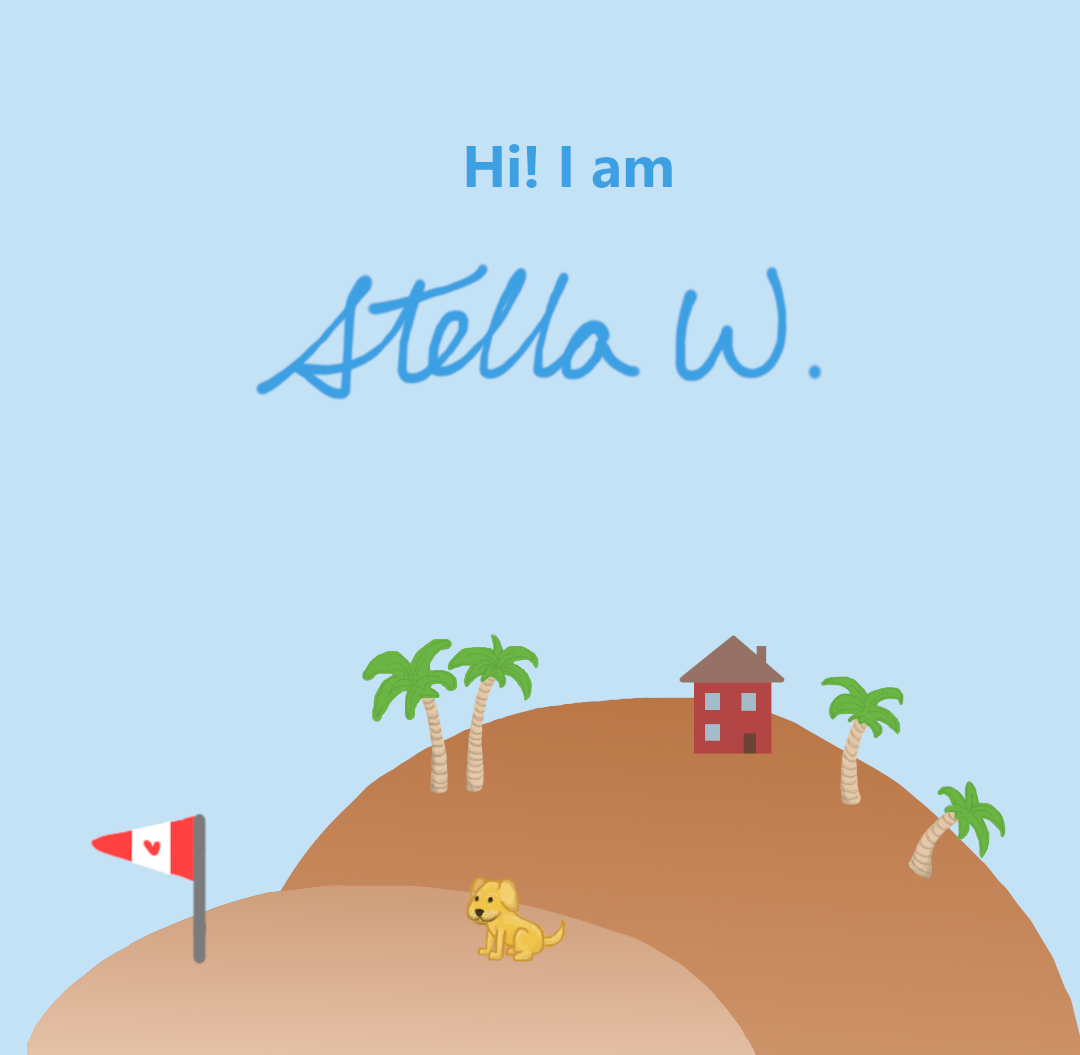
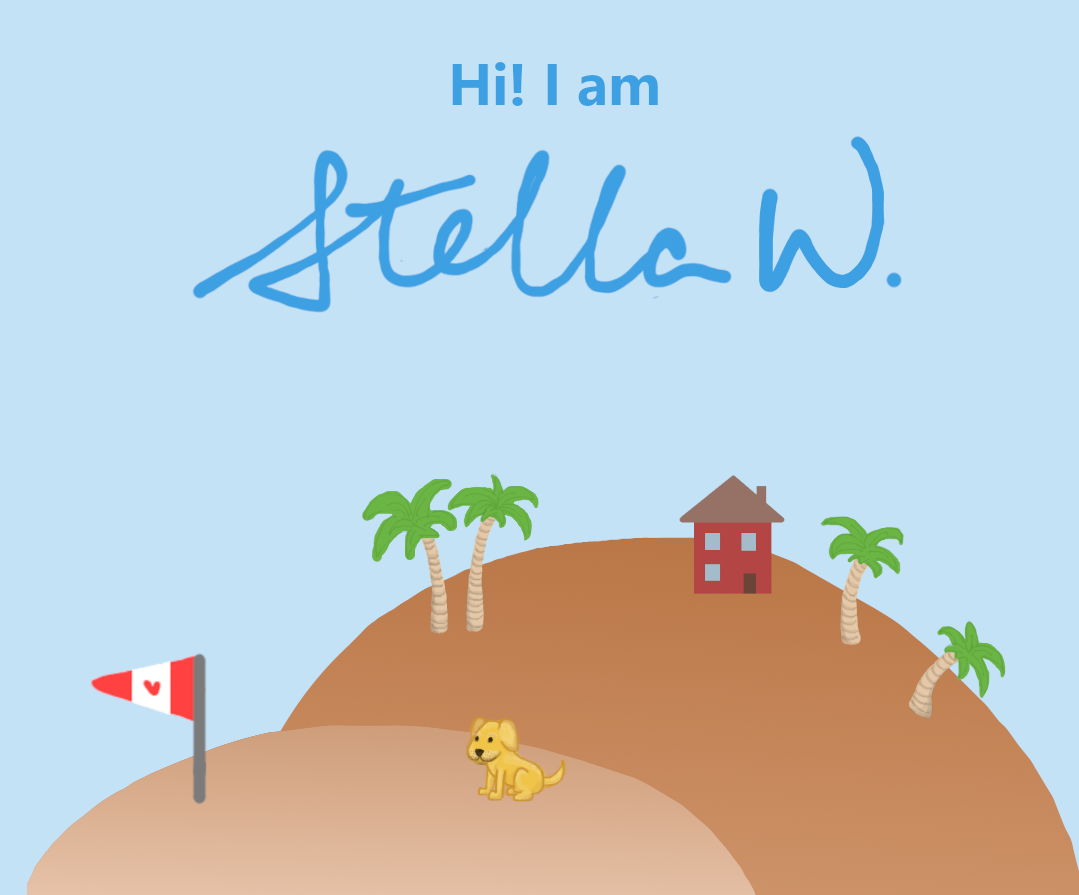
change img

diff --git a/_sass/_variables.scss b/_sass/_variables.scss
@@ -4,8 +4,8 @@
 //
 
 // Colors
-$blue: #4183C4;
-$background: #add6f3;
+$blue: #3ca0e3;
+$background: #73bcec;
 $background2: #c4e2f4;
 
 // Grays
